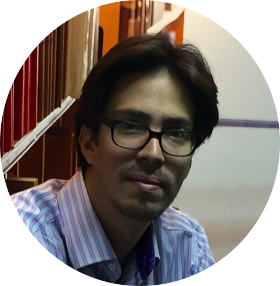
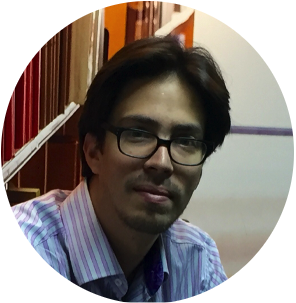
Updated information in about us section.

diff --git a/emma/templates/landing/who.html b/emma/templates/landing/who.html
@@ -62,15 +62,15 @@
       </div>
       <div class="vertical-top col-xs-8 col-sm-3 col-md-3 col-lg-2 whowe-col-photo">
         <div class="row whowe-row-images-img">
-          <img src="{% static 'img/Lore.png' %}" alt="Lore"
+          <img src="{% static 'img/Diego.png' %}" alt="Lore"
                class="img-responsive whowe-photo">
         </div>
         <div class="row">
           <p class="whowe-photo-name">
-            Lorena Piedras
+            Dr. Diego Garfias
           </p>
           <p class="whowe-photo-place">
-            DIRECTORA EN FINANZAS
+            DIRECTOR DE CALIDAD
           </p>
         </div>
       </div>
